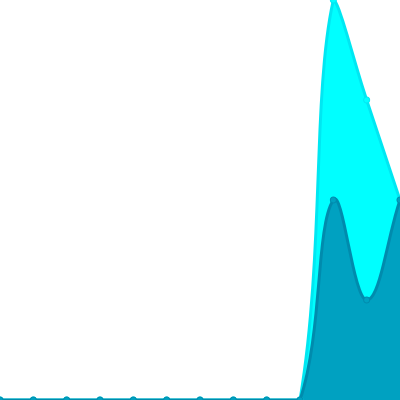
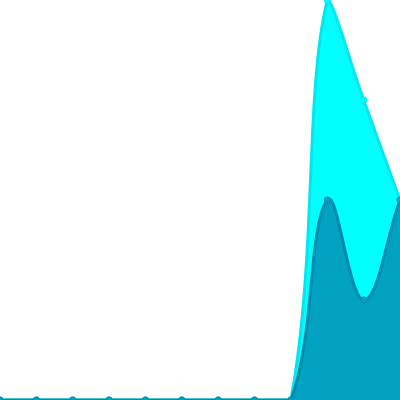
Update views

diff --git a/README.md b/README.md
@@ -26,18 +26,18 @@ The project created and maintained by [gayanvoice](https://github.com/gayanvoice
 			</a>
 		</td>
 		<td>
-			2022/6/28 12:35 AM UTC
+			2022/6/29 12:00 AM UTC
 		</td>
 		<td>
-			4
+			5
 		</td>
 		<td>
-			<img alt="Response time graph" src="https://github.com/jfet97/my-views-counter/raw/master/graph/279336970/small/year.png" height="20"> 8
+			<img alt="Response time graph" src="https://github.com/jfet97/my-views-counter/raw/master/graph/279336970/small/year.png" height="20"> 9
 		</td>
 	</tr>
 </table>
 
-<small><i>Last updated on 2022/6/30 6:08 PM UTC</i></small>
+<small><i>Last updated on 2022/7/1 12:37 AM UTC</i></small>
 
 ## ✂Copy and 📋 Paste
 ### Total Views Badge

diff --git a/readme/279336970/year.md b/readme/279336970/year.md
@@ -150,21 +150,10 @@
 			<code>0</code>
 		</td>
 	</tr>
-	<tr>
-		<td>
-			<code>2021/6/1</code>
-		</td>
-		<td>
-			<code>0</code>
-		</td>
-		<td>
-			<code>0</code>
-		</td>
-	</tr>
 </table>
 
 </details>
-<small><i>Last updated on 2022/6/30 6:07 PM UTC</i></small>
+<small><i>Last updated on 2022/7/1 12:37 AM UTC</i></small>
 
 ## ✂Copy and 📋 Paste
 ### SVG Badge
